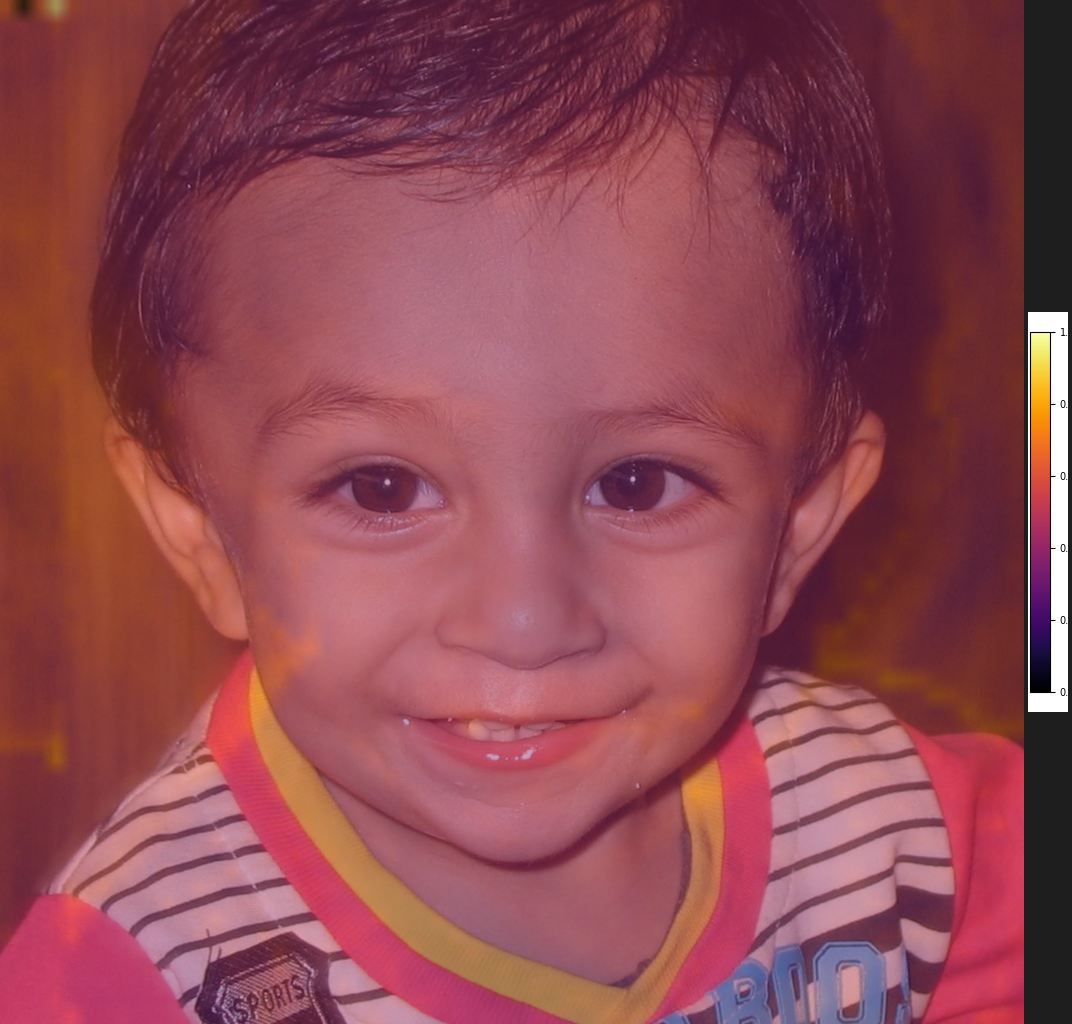
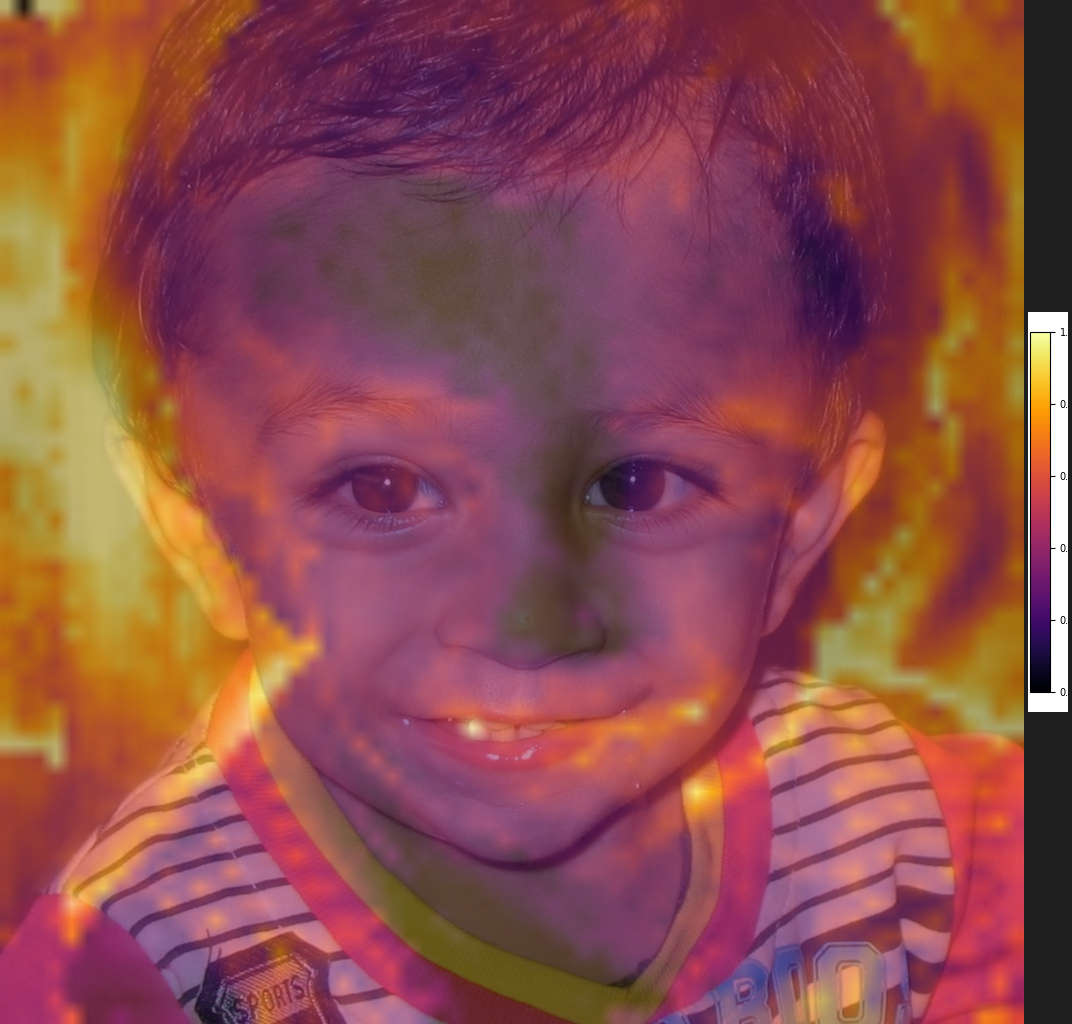
Fix visualizations and add per-image attribution
- Caption panel: dynamic height to fit full text (no more cut-off)
- DINOv3 heatmap: percentile normalization (2nd-98th) + 60% blend for
  much stronger contrast
- T5 chart: show per-token hidden-state magnitudes (L2 norm) instead of
  flat binary mask; viridis coloring + red padding boundary marker
- examples/CREDITS.md: per-image Flickr author, license, and URL for all
  3 example photos (CC BY-NC 2.0 / CC BY 2.0)

diff --git a/scripts/visualize_example.py b/scripts/visualize_example.py
@@ -121,25 +121,38 @@ def render_pose_overlay(img: Image.Image, pose: np.ndarray) -> Image.Image:
 
 
 def render_caption_panel(img: Image.Image, caption: str) -> Image.Image:
-    """Image with caption text panel below."""
-    panel_h = 160
-    result = Image.new("RGB", (img.width, img.height + panel_h), (30, 30, 30))
-    result.paste(img, (0, 0))
-
-    draw = ImageDraw.Draw(result)
+    """Image with caption text panel below, sized to fit the full text."""
     try:
-        font = ImageFont.truetype("/usr/share/fonts/truetype/dejavu/DejaVuSans.ttf", 16)
+        font = ImageFont.truetype("/usr/share/fonts/truetype/dejavu/DejaVuSans.ttf", 15)
     except OSError:
         font = ImageFont.load_default()
 
-    wrapped = textwrap.fill(caption, width=80)
-    draw.multiline_text((16, img.height + 12), wrapped, fill=(240, 240, 240), font=font,
-                        spacing=4)
+    margin = 16
+    spacing = 4
+    wrap_width = max(60, int(img.width / 9.5))
+    wrapped = textwrap.fill(caption, width=wrap_width)
+
+    # Measure text height
+    tmp = Image.new("RGB", (1, 1))
+    tmp_draw = ImageDraw.Draw(tmp)
+    bbox = tmp_draw.multiline_textbbox((0, 0), wrapped, font=font, spacing=spacing)
+    text_h = bbox[3] - bbox[1]
+    panel_h = text_h + margin * 2
+
+    result = Image.new("RGB", (img.width, img.height + panel_h), (30, 30, 30))
+    result.paste(img, (0, 0))
+    draw = ImageDraw.Draw(result)
+    draw.multiline_text((margin, img.height + margin), wrapped, fill=(240, 240, 240),
+                        font=font, spacing=spacing)
     return result
 
 
 def render_dino_heatmap(img: Image.Image, cls_emb: np.ndarray, patch_emb: np.ndarray) -> Image.Image:
-    """Overlay DINOv3 CLS-to-patch cosine similarity as a heatmap."""
+    """Overlay DINOv3 CLS-to-patch cosine similarity as a heatmap.
+
+    Uses percentile-based normalization for better contrast and a stronger
+    blend so the heatmap is clearly visible over the face.
+    """
     import matplotlib
     matplotlib.use("Agg")
     import matplotlib.pyplot as plt
@@ -160,27 +173,28 @@ def render_dino_heatmap(img: Image.Image, cls_emb: np.ndarray, patch_emb: np.nda
         similarity = padded
     heatmap = similarity.reshape(grid_size, grid_size)
 
-    # Normalize to [0, 1]
-    heatmap = (heatmap - heatmap.min()) / (heatmap.max() - heatmap.min() + 1e-8)
+    # Percentile-based normalization for better contrast
+    lo = np.percentile(heatmap, 2)
+    hi = np.percentile(heatmap, 98)
+    heatmap = np.clip((heatmap - lo) / (hi - lo + 1e-8), 0, 1)
 
     # Apply colormap and resize to image dimensions
-    colored = cm.inferno(heatmap)[:, :, :3]  # drop alpha
+    colored = cm.inferno(heatmap)[:, :, :3]
     colored_uint8 = (colored * 255).astype(np.uint8)
     heatmap_img = Image.fromarray(colored_uint8).resize((img.width, img.height), Image.BILINEAR)
 
-    # Blend with original
-    overlay = Image.blend(img.convert("RGB"), heatmap_img, alpha=0.45)
+    # Stronger blend so the heatmap reads clearly
+    overlay = Image.blend(img.convert("RGB"), heatmap_img, alpha=0.6)
 
     # Add colorbar legend
     fig, ax = plt.subplots(figsize=(0.4, 4), dpi=100)
     norm = matplotlib.colors.Normalize(vmin=0, vmax=1)
     fig.colorbar(cm.ScalarMappable(norm=norm, cmap="inferno"), cax=ax)
-    ax.set_ylabel("CLS similarity", fontsize=9)
+    ax.set_ylabel("CLS→patch similarity (normalized)", fontsize=8)
     ax.tick_params(labelsize=7)
     fig.subplots_adjust(left=0.05, right=0.55, top=0.95, bottom=0.05)
     fig.canvas.draw()
 
-    # Convert colorbar to PIL and paste
     bar_arr = np.frombuffer(fig.canvas.buffer_rgba(), dtype=np.uint8)
     bar_arr = bar_arr.reshape(fig.canvas.get_width_height()[::-1] + (4,))
     bar_img = Image.fromarray(bar_arr[:, :, :3])
@@ -194,11 +208,18 @@ def render_dino_heatmap(img: Image.Image, cls_emb: np.ndarray, patch_emb: np.nda
     return result
 
 
-def render_t5_mask_chart(img: Image.Image, t5_mask: np.ndarray, caption: str) -> Image.Image:
-    """Bar chart showing T5 attention mask (real tokens vs padding)."""
+def render_t5_mask_chart(img: Image.Image, t5_mask: np.ndarray, caption: str,
+                         t5_hidden: np.ndarray | None = None) -> Image.Image:
+    """Visualize T5 encoding: per-token hidden-state magnitudes and mask boundary.
+
+    When *t5_hidden* is provided, shows the L2 norm of each token's hidden state
+    as a bar chart — real tokens in colour (viridis), padding in dark grey.
+    Falls back to a simple mask bar chart if hidden states are unavailable.
+    """
     import matplotlib
     matplotlib.use("Agg")
     import matplotlib.pyplot as plt
+    import matplotlib.cm as cm
 
     n_real = int(t5_mask.sum())
     n_pad = len(t5_mask) - n_real
@@ -207,21 +228,40 @@ def render_t5_mask_chart(img: Image.Image, t5_mask: np.ndarray, caption: str) ->
     fig.patch.set_facecolor("#1e1e1e")
     ax.set_facecolor("#1e1e1e")
 
-    colors = ["#4CAF50" if m else "#333333" for m in t5_mask]
-    ax.bar(range(len(t5_mask)), t5_mask.astype(float), color=colors, width=1.0, edgecolor="none")
+    if t5_hidden is not None:
+        norms = np.linalg.norm(t5_hidden.astype(np.float32), axis=1)
+
+        # Colour real tokens by magnitude, padding in grey
+        real_norms = norms[:n_real]
+        lo, hi = real_norms.min(), real_norms.max()
+        norm_scaled = (real_norms - lo) / (hi - lo + 1e-8)
+        cmap = matplotlib.colormaps["viridis"]
+        colors = [cmap(v) for v in norm_scaled] + ["#2a2a2a"] * n_pad
+
+        ax.bar(range(len(norms)), norms, color=colors, width=1.0, edgecolor="none")
+        ax.axvline(x=n_real - 0.5, color="#ff5555", linewidth=1.5, linestyle="--", alpha=0.8)
+        ax.text(n_real + 2, norms[:n_real].max() * 0.95, "← padding",
+                color="#ff5555", fontsize=9, verticalalignment="top")
+        ax.set_ylabel("Token hidden-state ‖h‖₂", color="white", fontsize=10)
+        ax.set_title(f"T5 Encoding — {n_real} real tokens, {n_pad} padding  (hidden-state magnitudes)",
+                     color="white", fontsize=11, pad=10)
+    else:
+        colors = ["#4CAF50" if m else "#333333" for m in t5_mask]
+        ax.bar(range(len(t5_mask)), t5_mask.astype(float), color=colors, width=1.0, edgecolor="none")
+        ax.set_ylim(0, 1.3)
+        ax.set_title(f"T5 Attention Mask — {n_real} real tokens, {n_pad} padding",
+                     color="white", fontsize=11, pad=10)
+
     ax.set_xlim(0, len(t5_mask))
-    ax.set_ylim(0, 1.3)
     ax.set_xlabel("Token position", color="white", fontsize=10)
-    ax.set_title(f"T5 Attention Mask — {n_real} real tokens, {n_pad} padding",
-                 color="white", fontsize=11, pad=10)
     ax.tick_params(colors="white", labelsize=8)
     for spine in ax.spines.values():
         spine.set_color("#555555")
 
-    # Show first few words of caption
     short_caption = caption[:120] + ("..." if len(caption) > 120 else "")
-    ax.text(0.02, 1.15, f'"{short_caption}"', transform=ax.transAxes,
-            fontsize=8, color="#aaaaaa", style="italic", verticalalignment="top")
+    ax.text(0.02, 0.97, f'"{short_caption}"', transform=ax.transAxes,
+            fontsize=8, color="#aaaaaa", style="italic", verticalalignment="top",
+            wrap=True)
 
     fig.tight_layout()
     fig.canvas.draw()
@@ -300,12 +340,14 @@ def main():
     dinov3_cls = np.load(sd / "dinov3_cls.npy")
     dinov3_patches = np.load(sd / "dinov3_patches.npy")
     t5_mask = np.load(sd / "t5_mask.npy")
+    t5_hidden_path = sd / "t5_hidden.npy"
+    t5_hidden = np.load(t5_hidden_path) if t5_hidden_path.exists() else None
 
     # Render panels
     pose_img = render_pose_overlay(img, pose)
     caption_img = render_caption_panel(img, caption)
     dino_img = render_dino_heatmap(img, dinov3_cls, dinov3_patches)
-    t5_img = render_t5_mask_chart(img, t5_mask, caption)
+    t5_img = render_t5_mask_chart(img, t5_mask, caption, t5_hidden)
 
     # Combined
     combined = render_combined_panel(pose_img, caption_img, dino_img, t5_img)

diff --git a/examples/CREDITS.md b/examples/CREDITS.md
@@ -1,0 +1,20 @@
+# Image Credits
+
+The example visualizations in this directory were generated from aligned face
+images in the [FFHQ dataset](https://github.com/NVlabs/ffhq-dataset). The
+original photographs were published on Flickr by their respective authors under
+the licenses listed below.
+
+These images are used here under the terms of their respective Creative Commons
+licenses. The visualizations overlay derived data (pose skeletons, captions,
+embeddings) on the aligned crops and constitute derivative works.
+
+| FFHQ ID | Original Author | License | Flickr URL |
+|---------|----------------|---------|------------|
+| 00010 | Anjul Sahu | [CC BY-NC 2.0](https://creativecommons.org/licenses/by-nc/2.0/) | [flickr.com/…/5931089028](https://www.flickr.com/photos/chiku86/5931089028/) |
+| 00028 | Montgomery County, MD | [CC BY-NC 2.0](https://creativecommons.org/licenses/by-nc/2.0/) | [flickr.com/…/42921156491](https://www.flickr.com/photos/montgomerycountymd/42921156491/) |
+| 01000 | Ben Reeves | [CC BY 2.0](https://creativecommons.org/licenses/by/2.0/) | [flickr.com/…/17161319076](https://www.flickr.com/photos/chindit76/17161319076/) |
+
+Per-image license and author metadata for all 70,000 FFHQ images is available
+in **`ffhq-dataset-v2.json`** from the
+[FFHQ dataset repository](https://github.com/NVlabs/ffhq-dataset).
